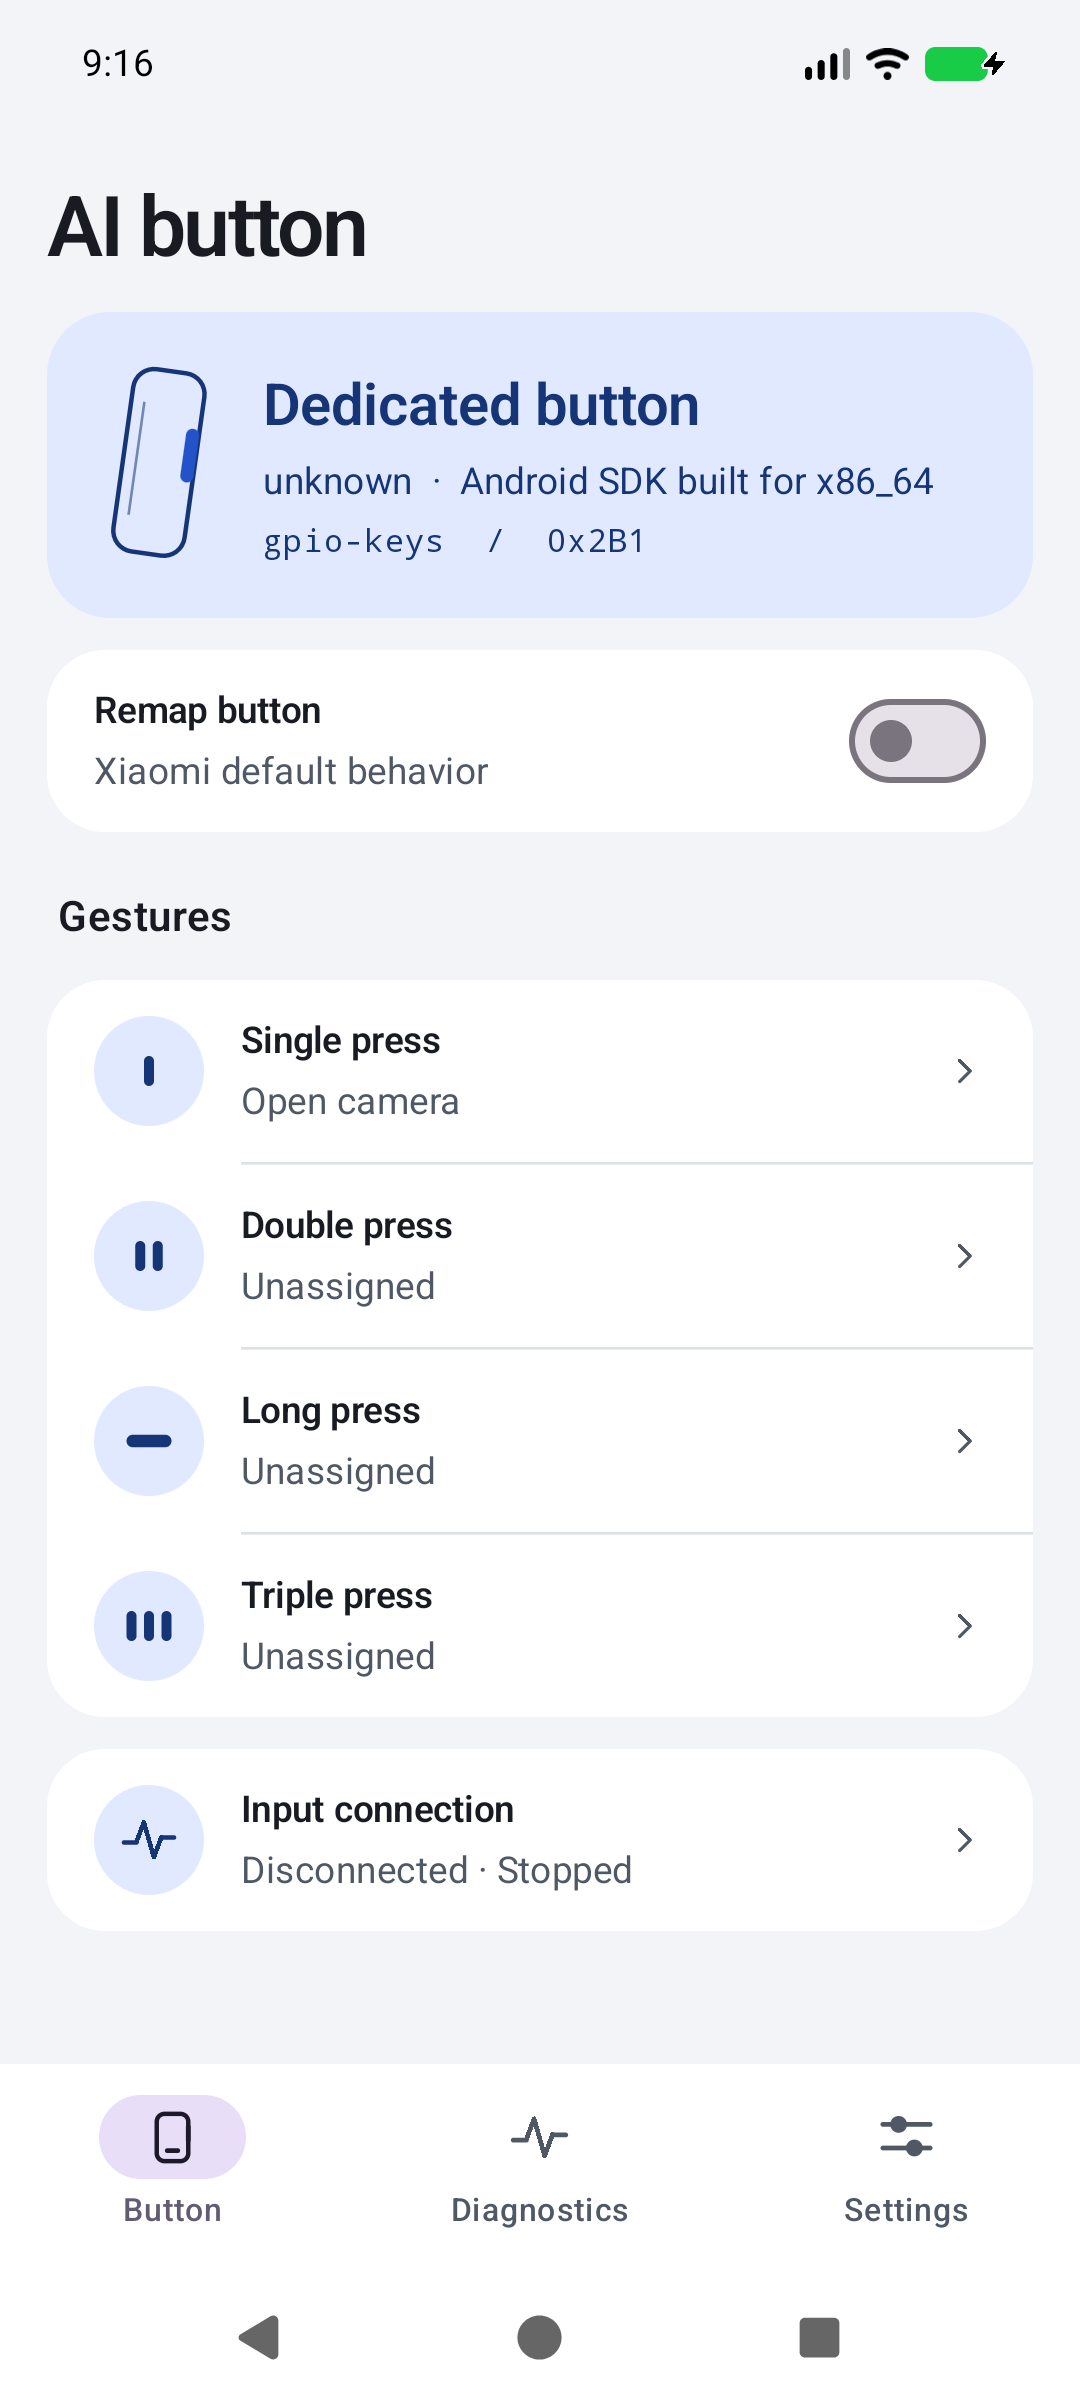
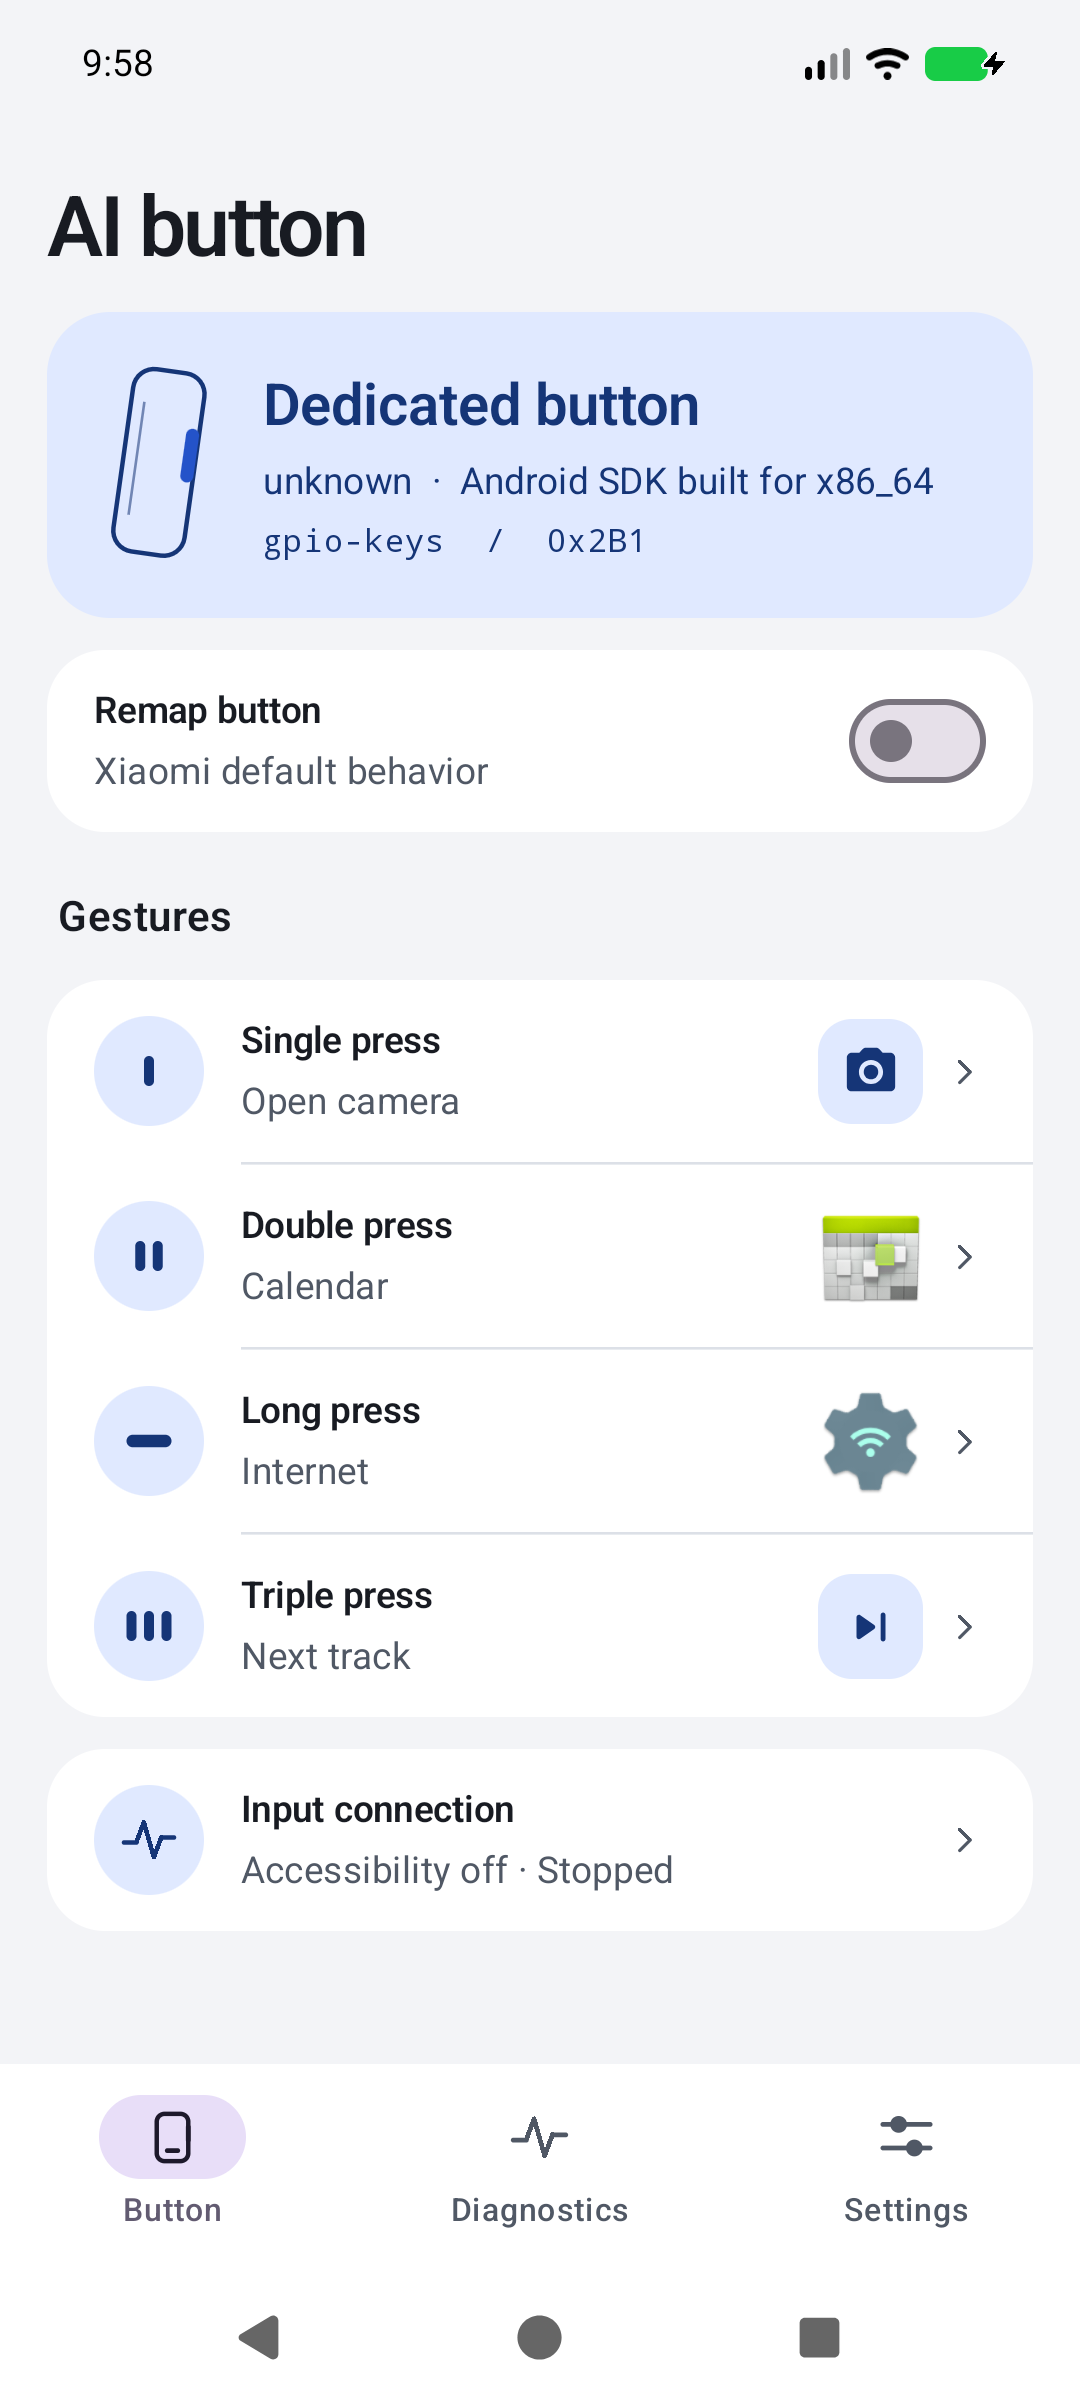
Document Android 17 accessibility tests and show the action picker

diff --git a/docs/verification.md b/docs/verification.md
@@ -1,4 +1,25 @@
-# Verification for the first preview
+# Verification
+
+## Accessibility and the action picker
+
+These checks used the production app code on an Android 17 x86-64 emulator with SELinux enforcing. Shizuku was uninstalled. The service was enabled through Android's accessibility consent screen. The PC tools supplied input and collected test evidence. The app ran as its ordinary Android UID.
+
+A separate virtual input fixture named `gpio-keys` supplied Linux EV_KEY 689. Android classified it as an internal input device. A separate foreground app recorded the framework events it actually received. The same driver also supplied volume and power events. The test did not change the remapper's device matching or the emulator's key layout.
+
+| Check | Observation |
+| --- | --- |
+| Read-only test | Diagnostics showed accessibility connected and both button edges. The downstream app received scan 689 with Android keyCode 0 (UNKNOWN). |
+| Actual suppression | With remapping active, the downstream app's target count stayed at 17 across the mapped press. The same source's volume-up DOWN and UP still reached the app with scan 115 and Android keyCode 24. Power still put the display to sleep and woke it. |
+| Camera with app closed | A single press launched the stock camera directly from the remapper UID while the independent app was in front. With a PIN and an awake locked display, Android launched its secure camera and kept the keyguard engaged. The AI key did not wake the fully sleeping emulator. |
+| Stop | Disabling remapping removed its foreground service. The next down/up increased the downstream target count from 17 to 19. |
+| Media | Global pause reached a playing test session. After granting Android notification access, per-app play reached the chosen session. Forward/back seeks respected the track-end and zero limits. Volume changed 5 → 6 → 5. The remapper's DND rule changed Android's interruption filter from all to priority, then back to all. |
+| Multi-action mapping | In the normal editor, a double press was set to About phone → 900 ms delay → Camera, repeated twice. With the settings UI closed, the four activities launched in order. The measured delays before Camera were 938 ms and 942 ms. |
+| Targeted UI action | With the optional UI interaction service separately enabled in Android Settings, a mapped long press clicked an exact visible button in the selected fixture app. A different case-sensitive text selector produced a no-match diagnostic. |
+| Public package artwork | Android supplied different icons for Calendar, Camera, Clock and Contacts. The Contact, Direct dial, Direct message and Settings shortcut creator rows had distinct artwork. The dashboard displayed icons for the selected Calendar app and the provider-created Internet Settings shortcut. The test account did not have shortcut-host access to enumerate other apps' private launcher shortcuts. |
+
+The phone owner observed that the old preview could listen to the real Xiaomi button. The emulator results establish Android accessibility filtering independently. HyperOS can route a vendor shortcut differently or reserve it before accessibility sees it. The on-phone procedure checks the Xiaomi action and hardware behavior directly. [Physical acceptance steps](device-testing.md)
+
+## Initial preview and optional Shizuku backend
 
 The app was built on Windows and GitHub's Linux runner using the checked-in wrapper. The APK targets API 37 and contains ARM64 and x86-64 native libraries. APK signature verification and Android's 16 KiB alignment check passed. The release page records the SHA-256 digest and originating Actions run.
 
@@ -24,4 +45,4 @@ For these checks a separate, unpublished emulator-only APK selected a marked vir
 
 ## Physical handset acceptance
 
-The supplied Xiaomi 18 Pro evidence establishes the Linux event identity and a successful Key Mapper Expert Mode remap. This project still needs a Xiaomi 18 Pro test of Xiaomi assistant suppression, secure camera behavior, power/volume propagation, and HyperOS idle and battery management. A stock emulator cannot exercise those vendor paths. Use the [handset acceptance matrix](device-testing.md) to record results. The [standalone emulator probe](emulator-testing.md) can be repeated before trying a new kernel or firmware.
+The supplied Xiaomi 18 Pro evidence establishes the Linux event identity, previous preview listening and a successful Key Mapper Expert Mode remap. This project still needs a Xiaomi 18 Pro test of Xiaomi assistant suppression, secure camera behavior, power/volume propagation, and HyperOS idle and battery management. A stock emulator cannot exercise those vendor paths. Use the [handset acceptance matrix](device-testing.md) to record results. The [standalone emulator probe](emulator-testing.md) can be repeated before trying a new kernel or firmware.

diff --git a/README.md b/README.md
@@ -4,7 +4,7 @@ Give the physical AI button on a Xiaomi 18 Pro a camera shortcut, an app launche
 
 The hardware target is the Xiaomi 18 Pro's physical `gpio-keys` button, Linux scan code `KEY_MACRO_RECORD_STOP` (689, hex `0x2B1`). The phone owner confirmed the previous release could listen to the button. Confirming HyperOS delivers it to an ordinary accessibility service, and checking whether the Xiaomi action is suppressed on a particular firmware, are separate handset tests.
 
-<img src="docs/screenshots/button-light.png" alt="The button overview with single press assigned to Open camera" width="230"> <img src="docs/screenshots/picker-dark.png" alt="The action picker in dark mode" width="230">
+<img src="docs/screenshots/button-light.png" alt="Assigned gesture actions with their icons" width="190"> <img src="docs/screenshots/picker-dark.png" alt="Global and app-specific playback actions in dark mode" width="190"> <img src="docs/screenshots/apps-light.png" alt="Installed apps with their launcher icons" width="190"> <img src="docs/screenshots/shortcuts-light.png" alt="Android shortcut creators with their icons" width="190">
 
 ## Install
 
